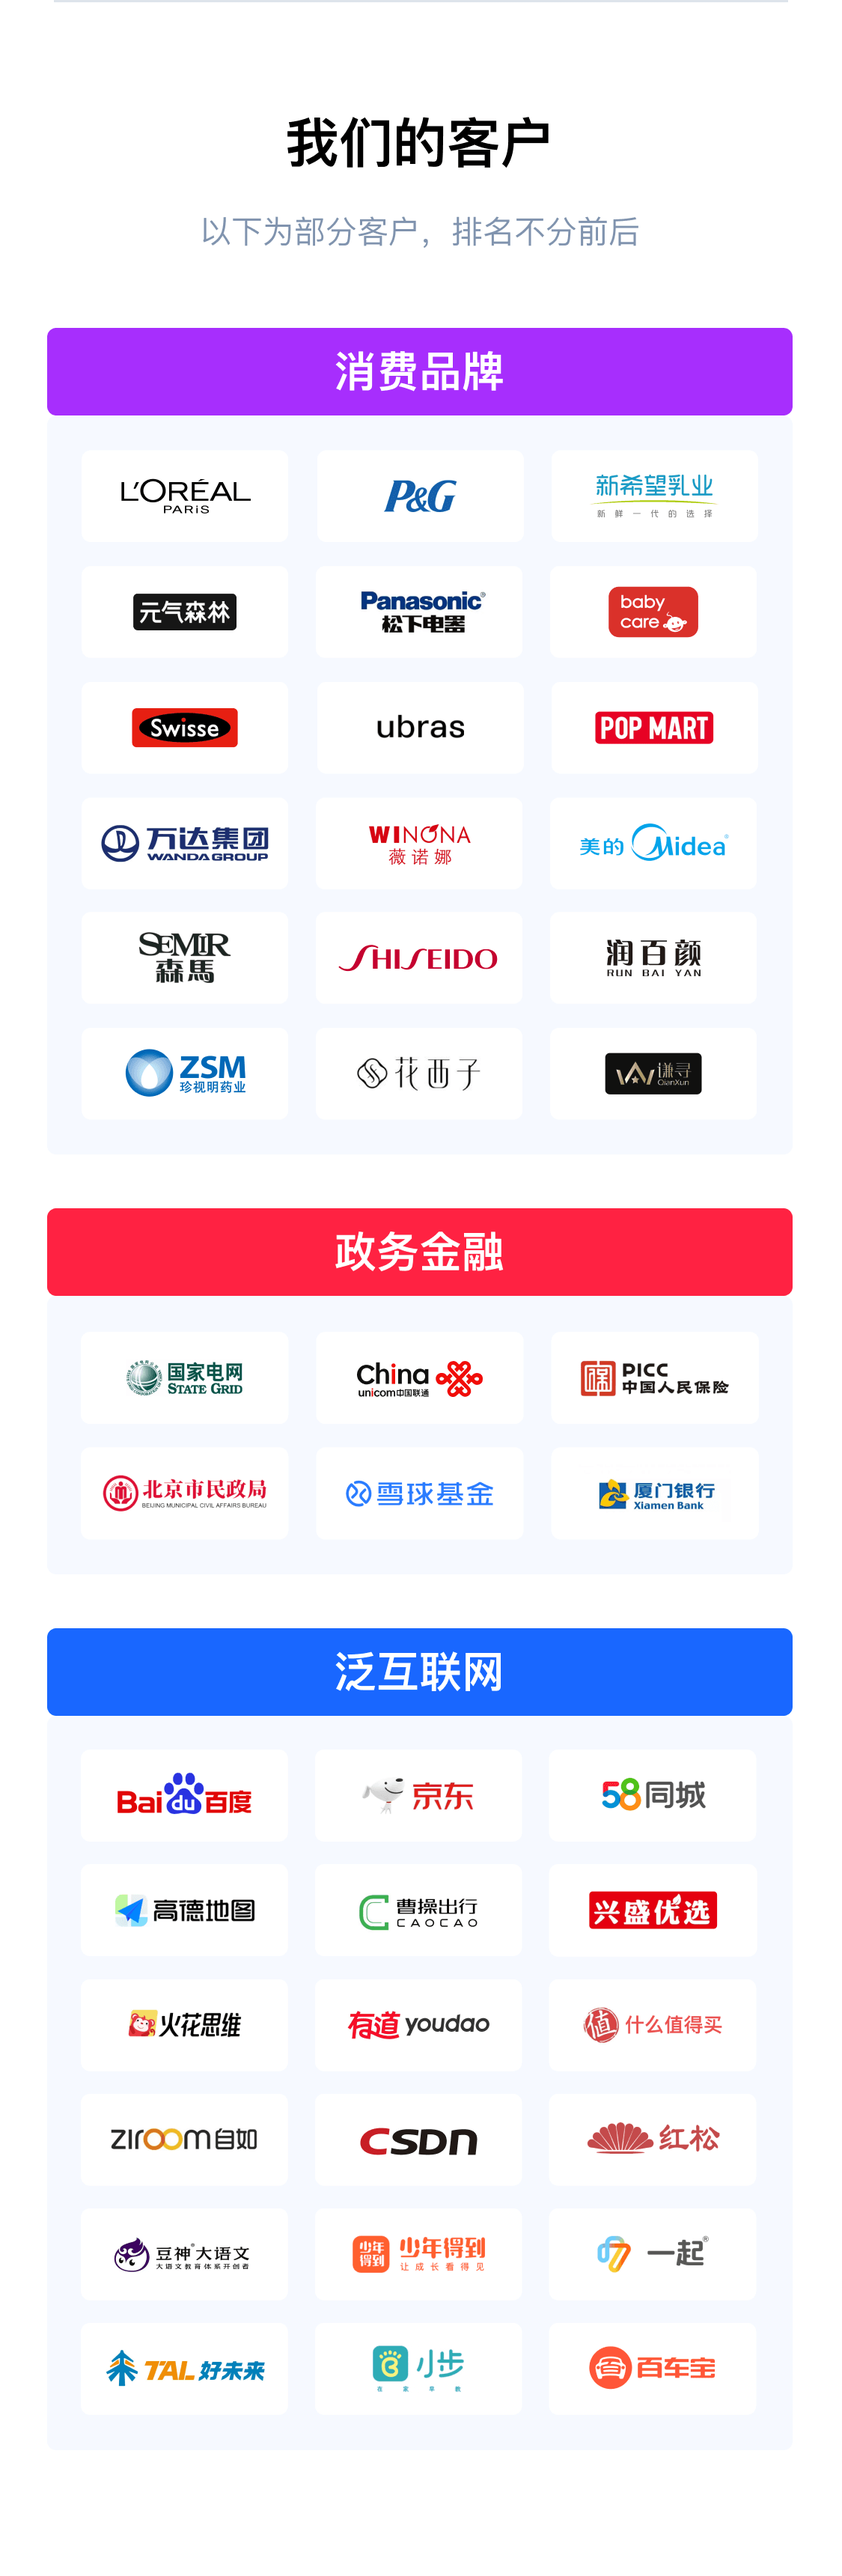
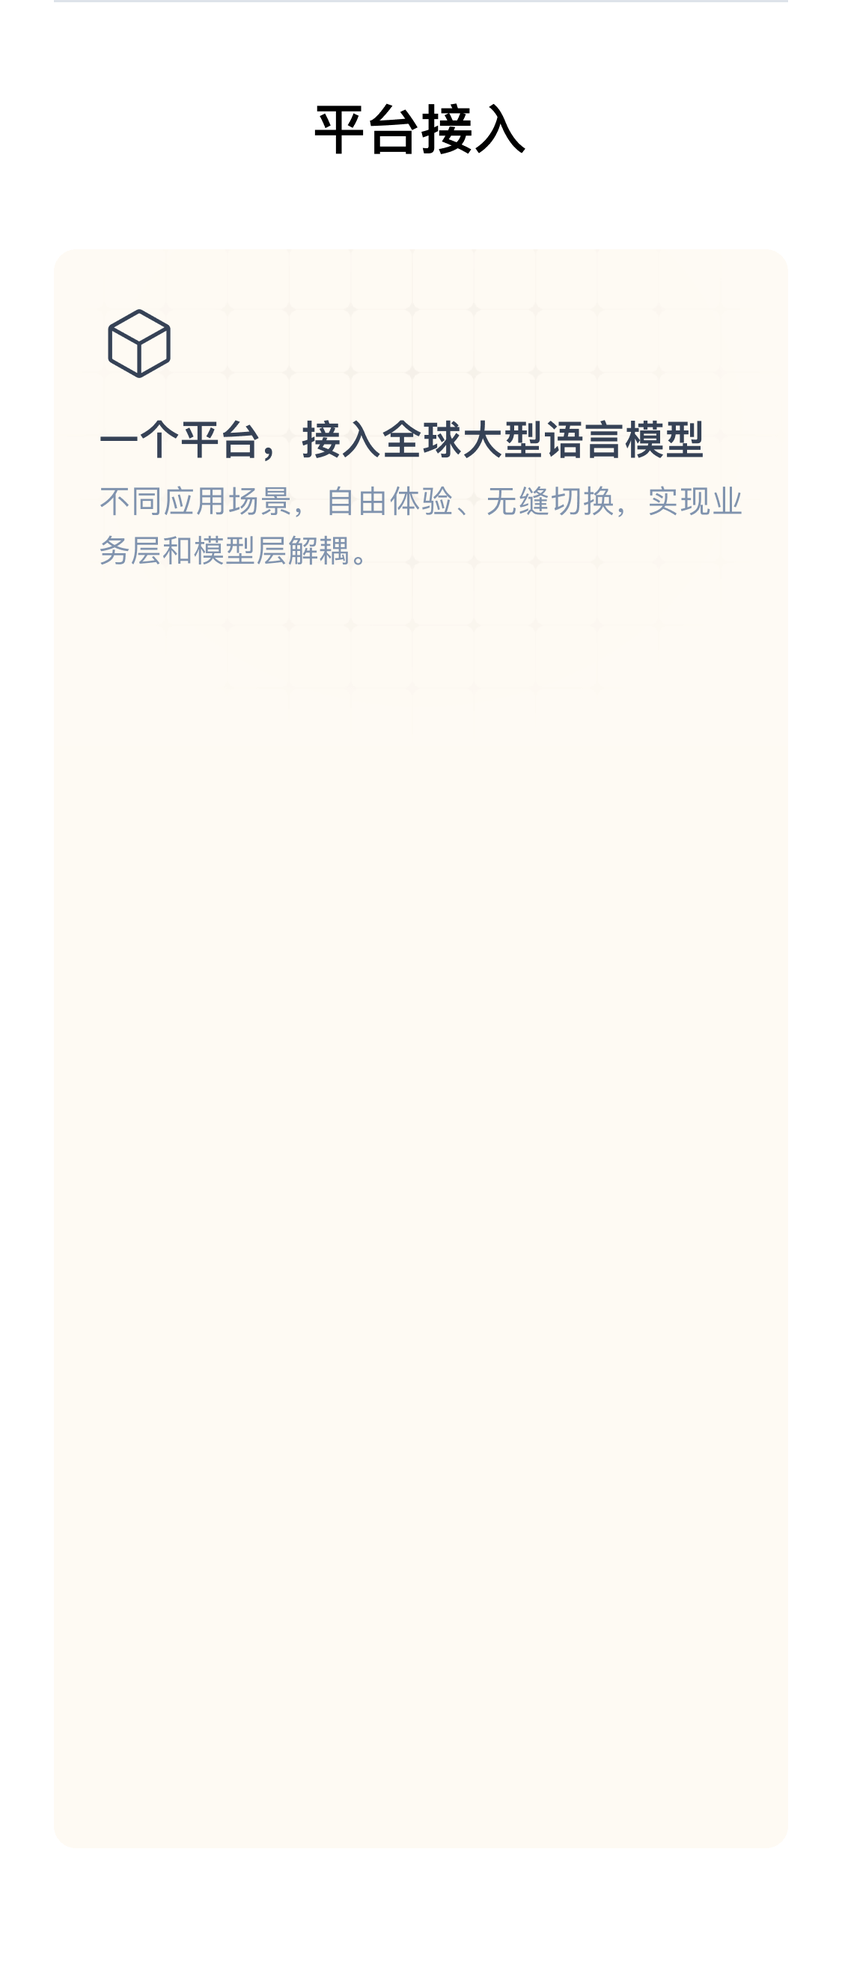
LlmLogos

diff --git a/src/components/LlmLogos/index.tsx b/src/components/LlmLogos/index.tsx
@@ -1,0 +1,225 @@
+import { FC, useEffect, useRef, useState } from "react";
+import cls from 'classnames';
+import AutoSizer from "react-virtualized-auto-sizer";
+import { useMediaQuery } from "@react-hookz/web";
+
+type Props = {
+  className?: string,
+}
+
+const fileNames = [
+  "GPT-3.5.png",
+  "GPT-4.png",
+  "BaiChuan.png",
+  "ZhiPu.png",
+  "MINIMAX.png",
+  "WenXinYiYan.png",
+  "XunFeiXingHuo.png",
+  "Moonshot-AI.png",
+  "ChatGLM.png",
+  "YanXi.png",
+  "PanGu.png",
+  "TongYi.png",
+  "FuXi.png",
+  "HunYuan.png",
+  "Moss.png",
+  "Sensetime.png",
+  "TianGong.png",
+  "Google-Bard.png"
+];
+
+function findMiddleNumber(num: number) {
+  const middle = (num + 1) / 2;
+  // if (middle !== 0) {
+  //   return middle;
+  // }
+  return Math.floor(middle);
+}
+
+// function getMax(height = 1000, unitHeight = 116, unitPadding = 16) {
+//   const paddingChange = 5;
+//   const opacityChange = 0.1;
+
+//   let x = 3;
+//   let middle = 2;
+//   const scrollListH = unitHeight * x + unitPadding * (x - 1);
+
+//   while (condition) {
+//   }
+
+//   return 0;
+// }
+
+
+
+// function closestOdd(number: number) {
+//   // 检查给定的数是否是整数
+//   if (!Number.isInteger(number)) {
+//     throw new Error("Input must be an integer.");
+//   }
+
+//   // 如果是奇数，直接返回
+//   if (number % 2 !== 0) {
+//     return number;
+//   }
+
+//   // 如果是偶数，找到两个最近的奇数
+//   let lowerOdd = number - 1;
+//   let upperOdd = number + 1;
+
+//   // 比较哪个奇数更接近
+//   return Math.abs(number - lowerOdd) <= Math.abs(number - upperOdd) ? lowerOdd : upperOdd;
+// }
+
+const filePaths = fileNames.map(fileName => `_images/icons/llm-logo/${fileName}`);
+
+export const LlmLogos: FC<Props> = ({ className }) => {
+  const isSmallDevice = useMediaQuery('only screen and (max-width : 600px)');
+  const [showList, setShowList] = useState<string[]>([]);
+  const [initShowCount, setInitShowCount] = useState<number>();
+
+  // console.log('====render', [showList, filePaths])
+
+  useEffect(() => {
+    if (initShowCount) {
+      console.log('初始化initShowCount', [initShowCount])
+      setShowList(filePaths.slice(0, initShowCount));
+    }
+    return () => {
+      console.log('取消订阅', initShowCount)
+    }
+  }, [initShowCount])
+
+  let unitHeight = 116;
+  let unitPadding = 16;
+
+  if (isSmallDevice) {
+    unitHeight = 75;
+    unitPadding = 12;
+  }
+
+  return (
+    <div className={cls('overflow-auto flex xxxxx', className)}>
+      <AutoSizer>
+        {({ height, width }) => {
+          const unit = unitHeight + unitPadding;
+          const showCount = Math.floor(height / unit);
+          const middleIndex = findMiddleNumber(showCount) - 1;
+
+          const scrollListH = unitHeight * filePaths.length + unitPadding * (filePaths.length - 1);
+          if (height > unitHeight && initShowCount === undefined) {
+            setInitShowCount(showCount);
+          }
+
+          // console.log('first', [height, scrollListH,])
+          console.log('AutoSizer===', [showCount, findMiddleNumber(showCount), middleIndex, filePaths.slice(0, showCount)]);
+
+          return (
+            <div style={{ height, width }}>
+
+              {/* 图层1 */}
+              <div className="h-full w-full overflow-auto border-red-500 border-dotted absolute z-20"
+                onScroll={event => {
+                  const { scrollTop } = event.currentTarget;
+                  const topCount = Math.floor(scrollTop / unit);
+                  setShowList(filePaths.slice(topCount, topCount + showCount + 1));
+                  console.log('滚动', [filePaths.slice(topCount, topCount + showCount)]);
+                }}
+              >
+                <div className="image-list flex flex-col invisible">
+                  <div style={{ height: scrollListH }} />
+                </div>
+              </div>
+
+              {/* 图层2 */}
+              <div className="h-full border-green-500 border-dotted absolute z-10 overflow-hidden flex flex-col items-center justify-center gap-4">
+                {
+                  showList.map((d, i) => {
+                    const height = unitHeight - (Math.abs(i - middleIndex)) * 5;
+                    const opacity = 1 - (Math.abs(i - middleIndex)) * 0.15;
+                    return (
+                      <img
+                        key={d}
+                        src={d}
+                        alt=""
+                        className={cls('border-[3px] border-solid  rounded-2xl', i === middleIndex ? 'border-[rgb(21,94,239)]' : 'border-white')}
+                        style={{ height, opacity, }}
+                      />
+                    )
+                  })
+                }
+              </div>
+            </div>
+          )
+        }}
+      </AutoSizer>
+    </div>
+  );
+
+
+  //   <AutoSizer>
+  //     {({ height }) => {
+  //       const unitHeight = 116 + 16;
+
+  //       const showCount = Math.floor(height / unitHeight);
+  //       const middleIndex = findMiddleNumber(showCount);
+  //       console.log('AutoSizer===', [showCount, middleIndex])
+  //       if (height && initShowCountRef.current === undefined) {
+  //         initShowCountRef.current = showCount;
+  //       }
+
+  //       return (
+  //         <div className={cls('h-[calc(74.5%)] overflow-auto flex xxxxx', className)}>
+
+  //           {/* 图层1 */}
+  //           {/* <div className="h-full w-full overflow-auto border-red-500 border-dotted absolute z-20" */}
+  //           <div className="h-full w-full overflow-auto scrollbar-none absolute z-20"
+  //             onScroll={event => {
+  //               const { scrollTop } = event.currentTarget;
+  //               const unit = 116 + 16;
+  //               const topCount = Math.floor(scrollTop / unit);
+  //               setShowList(filePaths.slice(topCount, topCount + showCount + 1));
+  //               // console.log('滚动', [clientHeight, scrollTop, scrollHeight, topCount]);
+  //             }}
+  //           >
+  //             <div className="image-list flex flex-col gap-4 invisible">
+  //               {
+  //                 filePaths.map(d => (
+  //                   <img
+  //                     key={d}
+  //                     src={d}
+  //                     alt=""
+  //                     className="w-[300px] h-[116px] border-[3px] border-solid border-[rgb(21,94,239)] rounded-2xl"
+  //                   />
+  //                 ))
+  //               }
+  //             </div>
+  //           </div>
+
+  //           {/* 图层2 */}
+  //           {/* <div className="h-full border-green-500 border-dotted absolute z-10 overflow-hidden"> */}
+  //           <div className="h-full absolute z-10 overflow-hidden">
+  //             <div className="image-list flex flex-col items-center gap-4">
+  //               {
+  //                 showList.map((d, i) => {
+  //                   const height = 116 - (Math.abs(i - middleIndex)) * 5;
+  //                   const opacity = 1 - (Math.abs(i - middleIndex)) * 0.15;
+  //                   return (
+  //                     <img
+  //                       key={d}
+  //                       src={d}
+  //                       alt=""
+  //                       className={cls('border-[3px] border-solid  rounded-2xl', i === middleIndex ? 'border-[rgb(21,94,239)]' : 'border-white')}
+  //                       style={{ height, opacity, }}
+  //                     />
+  //                   )
+  //                 })
+  //               }
+  //             </div>
+  //           </div>
+  //         </div>
+  //       )
+  //     }}
+  //   </AutoSizer>
+  // );
+};

diff --git a/src/pages/index.tsx b/src/pages/index.tsx
@@ -14,6 +14,7 @@ import Typewriter from 'typewriter-effect';
 import { RightArrow } from '@src/components/Icon';
 import { ContactUsModalWithButton } from '@src/components/ContactUsModal';
 import LogosWallNew from '../components/index/LogosWallNew';
+import { LlmLogos } from '@src/components/LlmLogos';
 
 const Home: NextPage = () => {
   const isSmallDevice = useMediaQuery('only screen and (max-width : 600px)');
@@ -121,7 +122,11 @@ const Home: NextPage = () => {
         {isZh ? (
           <>
             <img className='w-full' alt='' src="/_images/image-page/index-content-20240516-1.png" />
-            <img className='w-full' alt='' src="/_images/image-page/index-content-20240516-2.png" />
+            <div className='relative'>
+              <img className='w-full' alt='' src="/_images/image-page/index-content-20240516-2.png" />
+              <LlmLogos className="absolute bottom-[8.3%] h-[calc(74.5%)] w-[30%] right-[8.4%]" />
+            </div>
+            <img className='w-full' alt='' src="/_images/image-page/index-content-20240516-3.png" />
           </>
         ) :
         <><img className='w-full' alt='' src="/_images/image-page/index-content-en.png" />

diff --git a/src/pages/index-mobile.tsx b/src/pages/index-mobile.tsx
@@ -9,6 +9,7 @@ import Typewriter from 'typewriter-effect';
 import { RightArrow } from '@src/components/Icon';
 import { ContactUsModalWithButton } from '@src/components/ContactUsModal';
 import { useTranslation } from 'react-i18next';
+import { LlmLogos } from "@src/components/LlmLogos";
 
 const MobileIndexPage: NextPage<{}> = () => {
   const { t, i18n } = useTranslation('common');
@@ -83,7 +84,11 @@ const MobileIndexPage: NextPage<{}> = () => {
       { isZh ? (
         <>
           <img className='w-full' alt='' src="/_images/image-page/index-content-20240516-1-m.png" />
-          <img className='w-full' alt='' src="/_images/image-page/index-content-20240516-2-m.png" />
+          <div className='relative'>
+            <img className='w-full' alt='' src="/_images/image-page/index-content-20240516-2-m.png" />
+            <LlmLogos className="absolute bottom-[6.3%] h-[calc(63.5%)] w-[81.2%] right-[7%]" />
+          </div>
+          <img className='w-full' alt='' src="/_images/image-page/index-content-20240516-3-m.png" />
         </>
       ): 
         <img alt="" className='w-full' src="/_images/image-page/index-content-m-en.png" />

diff --git a/tailwind.config.js b/tailwind.config.js
@@ -1,4 +1,6 @@
 /** @type {import('tailwindcss').Config} */
+import scrollbar from 'tailwind-scrollbar';
+
 module.exports = {
   corePlugins: {
     preflight: false,
@@ -35,4 +37,8 @@ module.exports = {
       },
     },
   },
+  plugins: [
+    scrollbar,
+    // require('tailwind-scrollbar'),
+],
 }
